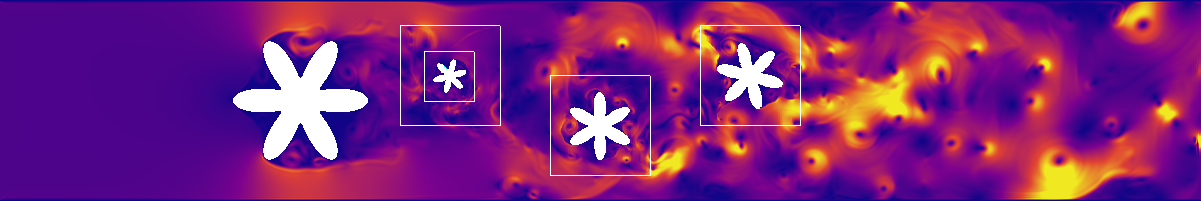
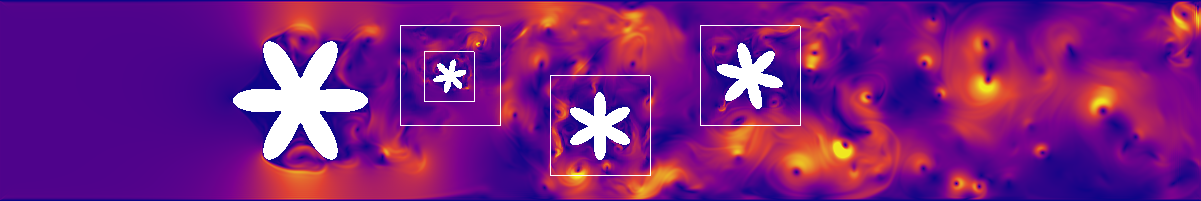
corrected: Reynolds numbers in nested examples

diff --git a/examples/nested.py b/examples/nested.py
@@ -37,8 +37,8 @@ radius = 20. # cylinder radius
 obstacle = NestedObstacleManager(center_list=[160, 100.5], radius=radius, nd=nd0)
 
 u = 0.1
-Re = 1000000.0
-nu = u*nd0[0]/Re; omega = 1/(3*nu + 0.5)
+Re = 50000.0
+nu = u*2*radius/Re; omega = 1/(3*nu + 0.5)
 
 from lb_solver.d2q9_Cumulant_kernel import ModelConfig
 config = ModelConfig(mode="push") # "push" with bounce-back must be used for nested grid

diff --git a/examples/nested3d.py b/examples/nested3d.py
@@ -35,8 +35,8 @@ radius = 15. # cylinder radius
 obstacle = NestedObstacleManager(center_list=[75., 60.5, 60.5], radius=radius, nd=nd0)
 
 u = 0.1
-Re = 100000.0
-nu = u*nd0[0]/Re; omega = 1/(3*nu + 0.5)
+Re = 8333.
+nu = u*2*radius/Re; omega = 1/(3*nu + 0.5)
 
 from lb_solver.d3q27_Cumulant_kernel import ModelConfig
 config = ModelConfig(mode="push") # "push" with bounce-back must be used for nested grid

diff --git a/examples/nested_JCprob1.py b/examples/nested_JCprob1.py
@@ -40,8 +40,8 @@ center_list = [ [300, 100], [450., 125.], [600., 75.], [750., 125.] ]
 theta_list = [ 0., 50., 100., 150. ]
 obstacle = NestedObstacleManager(center_list=center_list, radius_list=radius_list, theta_list=theta_list, nd=nd0)
 
-u, Re = 0.01, 10000000.0
-nu = u*nd0[0]/Re; omega = 1/(3*nu + 0.5)
+u, Re = 0.01, 1000000.0
+nu = u*2*radius_list[0]/Re; omega = 1/(3*nu + 0.5)
 
 from lb_solver.d2q9_Cumulant_kernel import ModelConfig
 config = ModelConfig(mode="push") # "push" with bounce-back must be used for nested grid

diff --git a/docs/source/models/bc.md b/docs/source/models/bc.md
@@ -93,7 +93,3 @@ The current code sweep all mask nodes, thereby deteriorating the overall speed o
 - If mask is static, store sweep index list. 
 - Taichi SNode (Unfortunately, Metal not supported)
 ```
-
-```{note}
-"delayed" bounce-back gives better stability than "non-delayed" bb at high $Re$. Does "delay" act as artificial viscosity, causing a change in $Re$? Or just a stability difference? Need detailed comparison and validation. 
-```

diff --git a/docs/source/models/mrt.md b/docs/source/models/mrt.md
@@ -366,7 +366,7 @@ However, since each moment appears multiple times in the $f$ expression, naive c
 
 ## Stability control
 
-`examples/JCprob_bb.py` (push+bb) with $Re$ increased to 10,000,000 can be a challenge for numerical stability. All one for $\omega_{i>1}$ could not reach 1000000 steps, while the simulation got stable with $\omega_{i>2} = 1.4$, which dumped high order noises; where $\omega_{2}$ for bulk viscosity was kept at unity. 
+`examples/JCprob_bb.py` (push+bb) with $Re$ increased to 500,000 can be a challenge for numerical stability. All one for $\omega_{i>1}$ could not reach 1000000 steps, while the simulation got stable with $\omega_{i>2} = 1.4$, which dumped high order noises; where $\omega_{2}$ for bulk viscosity was kept at unity. 
 
 <div style="max-width: 100%">
     <img src="https://www.lab.kobe-u.ac.jp/eng-mfd/clbmtaichi/JCprob1_bb_MRT-10000000.png"></img>

diff --git a/docs/source/nested.md b/docs/source/nested.md
@@ -280,7 +280,7 @@ with the acoustic scaling $\Delta x_{C} / \Delta t_{C} = \Delta x_{F} / \Delta t
 
 ## Grid configuration example
 
-The nested module is utilized with the cumulant collision kernel for `JCprob1` example. The extreme setting of $Re$ we used in MRT demo, i.e. Re=10,000,000, is employed here. 
+The nested module is utilized with the cumulant collision kernel for `JCprob1` example. The extreme setting of $Re$, i.e. Re=1,000,000, is employed here. 
 
 Four Johansen-Collela stars are set with different length scales: 
 - Star 0 is in nd0, level 0 root. The resolution and the position are the same as in `JCprob1.py`. 